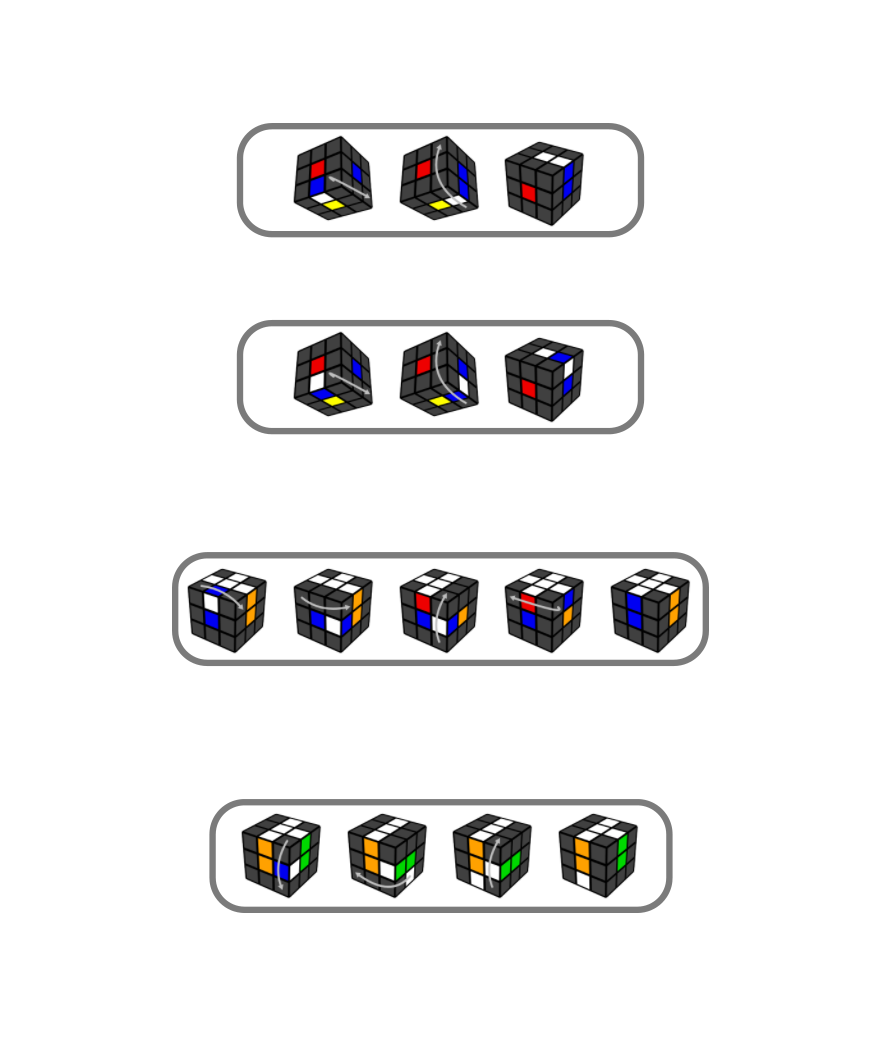
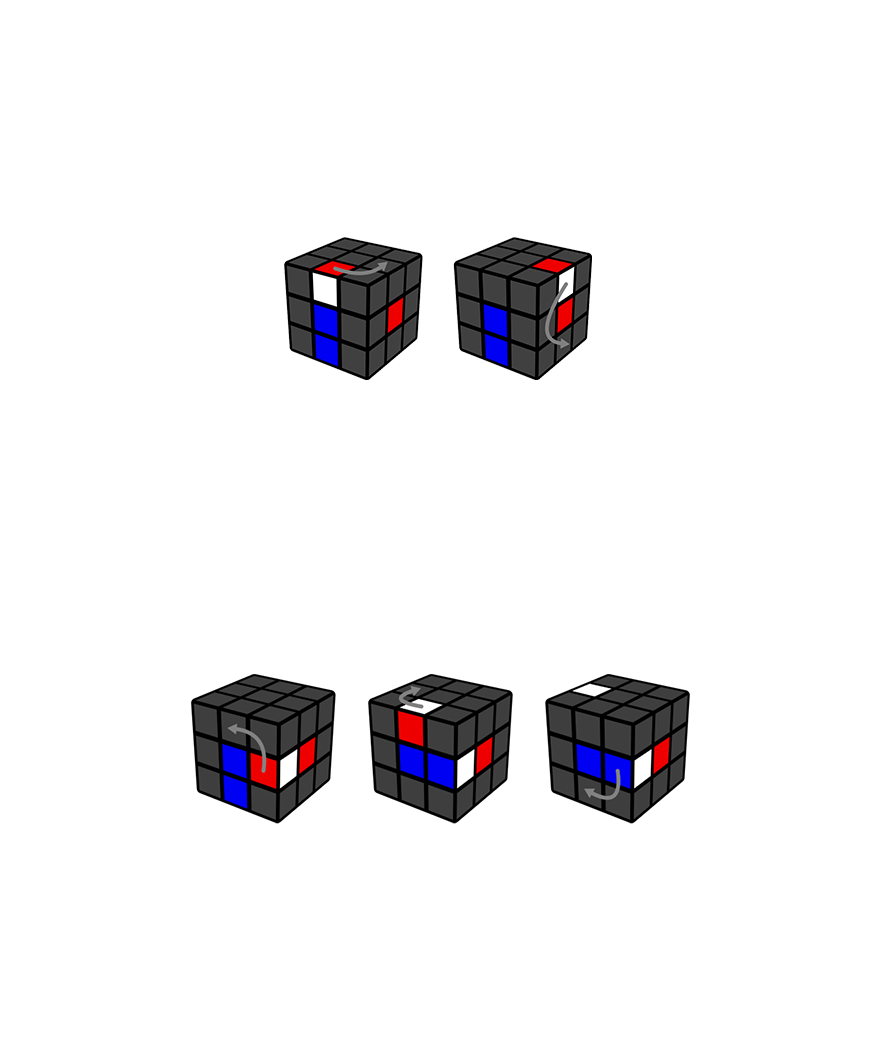
stage hint details added

diff --git a/qb_solver/__init__.py b/qb_solver/__init__.py
@@ -584,28 +584,36 @@ def updateCurrentHint(hintText, hintPicture, next_piece, next_stage):
     if current_stage == 0:
         backButton.enabled = False
         hintDisplay.icon = 'hint1'
+        hintDetail.icon = 'HintDetail1'
     elif current_stage == 1:
         backButton.enabled = True
         hintDisplay.icon = 'hint2'
+        hintDetail.icon = 'HintDetail2'
     elif current_stage == 2:
         backButton.enabled = True
         hintDisplay.icon = 'hint3'
+        hintDetail.icon = 'HintDetail3'
     elif current_stage == 3:
         backButton.enabled = True
         hintDisplay.icon = 'hint4'
+        hintDetail.icon = 'HintDetail4'
     elif current_stage == 4:
         backButton.enabled = True
         hintDisplay.icon = 'hint5'
+        hintDetail.icon = 'HintDetail5'
     elif current_stage == 5:
         backButton.enabled = True
         hintDisplay.icon = 'hint6'
+        hintDetail.icon = 'HintDetail6'
     elif current_stage == 6:
         backButton.enabled = True
         hintDisplay.icon = 'hint7'
+        hintDetail.icon = 'HintDetail7'
     elif current_stage == -1:
         backButton.enabled = False
         hintDisplay.icon = 'hint8'
         showhints = False
+        hintDetail.enabled = False
     hintMoveButton.enabled = showhints
     hintDetailButton.enabled = showhints
     if blinking:
@@ -996,20 +1004,28 @@ def backStage():
     if current_stage == 0:
         backButtonEnabled = False
         hintDisplay.icon = 'hint1'
+        hintDetail.icon = 'HintDetail1'
     elif current_stage == 1:
         hintDisplay.icon = 'hint2'
+        hintDetail.icon = 'HintDetail2'
     elif current_stage == 2:
         hintDisplay.icon = 'hint3'
+        hintDetail.icon = 'HintDetail3'
     elif current_stage == 3:
         hintDisplay.icon = 'hint4'
+        hintDetail.icon = 'HintDetail4'
     elif current_stage == 4:
         hintDisplay.icon = 'hint5'
+        hintDetail.icon = 'HintDetail5'
     elif current_stage == 5:
         hintDisplay.icon = 'hint6'
+        hintDetail.icon = 'HintDetail6'
     elif current_stage == 6:
         hintDisplay.icon = 'hint7'
+        hintDetail.icon = 'HintDetail7'
     elif current_stage == -1:
         backButtonEnabled = False
+        hintDetail.enabled = False
         hintDisplay.icon = 'hint8'
         showhints = False
     backButton.enabled = backButtonEnabled
